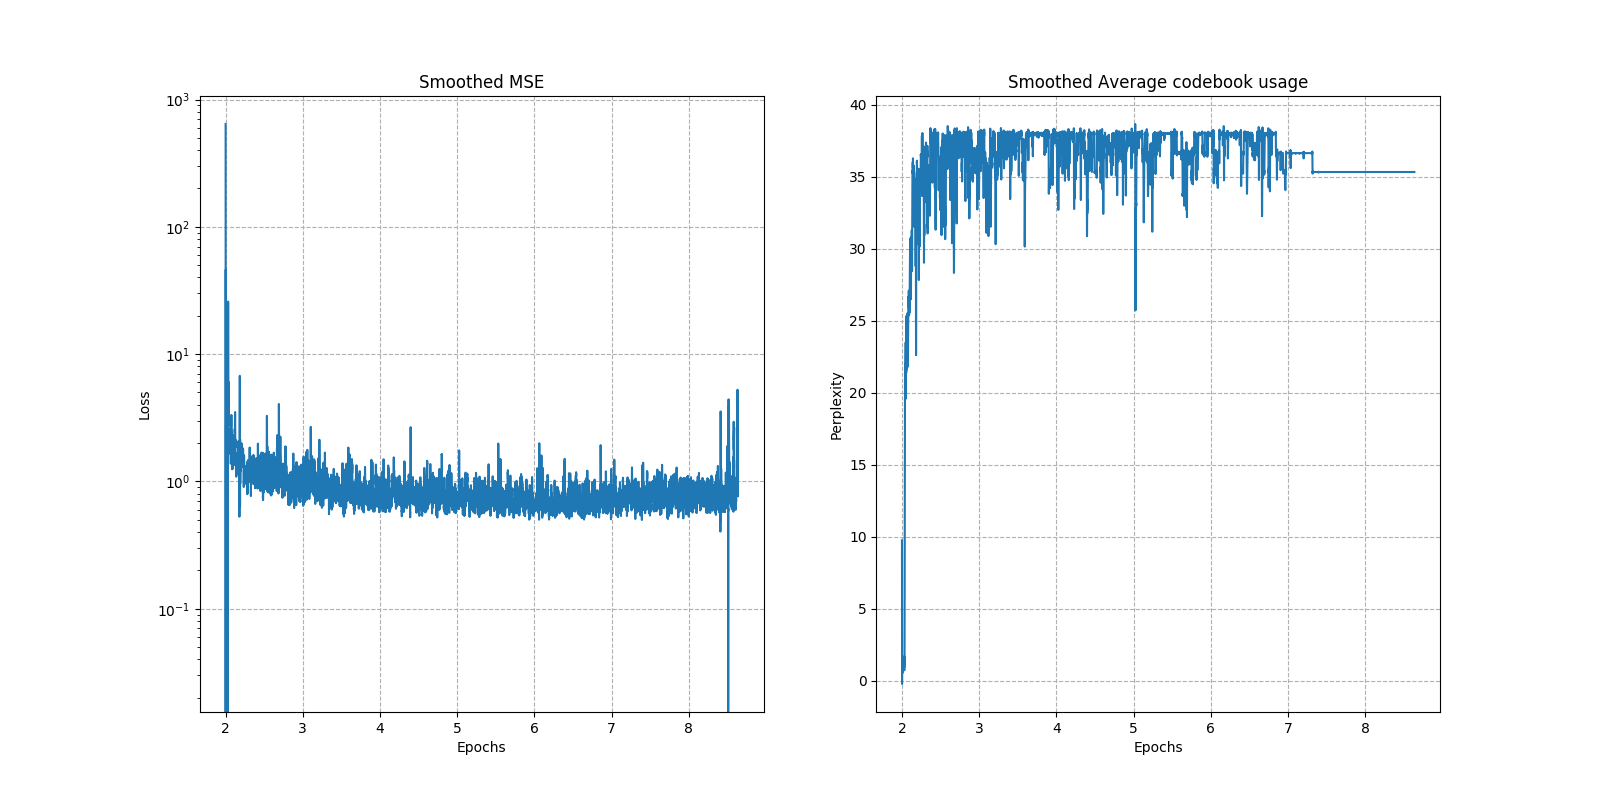
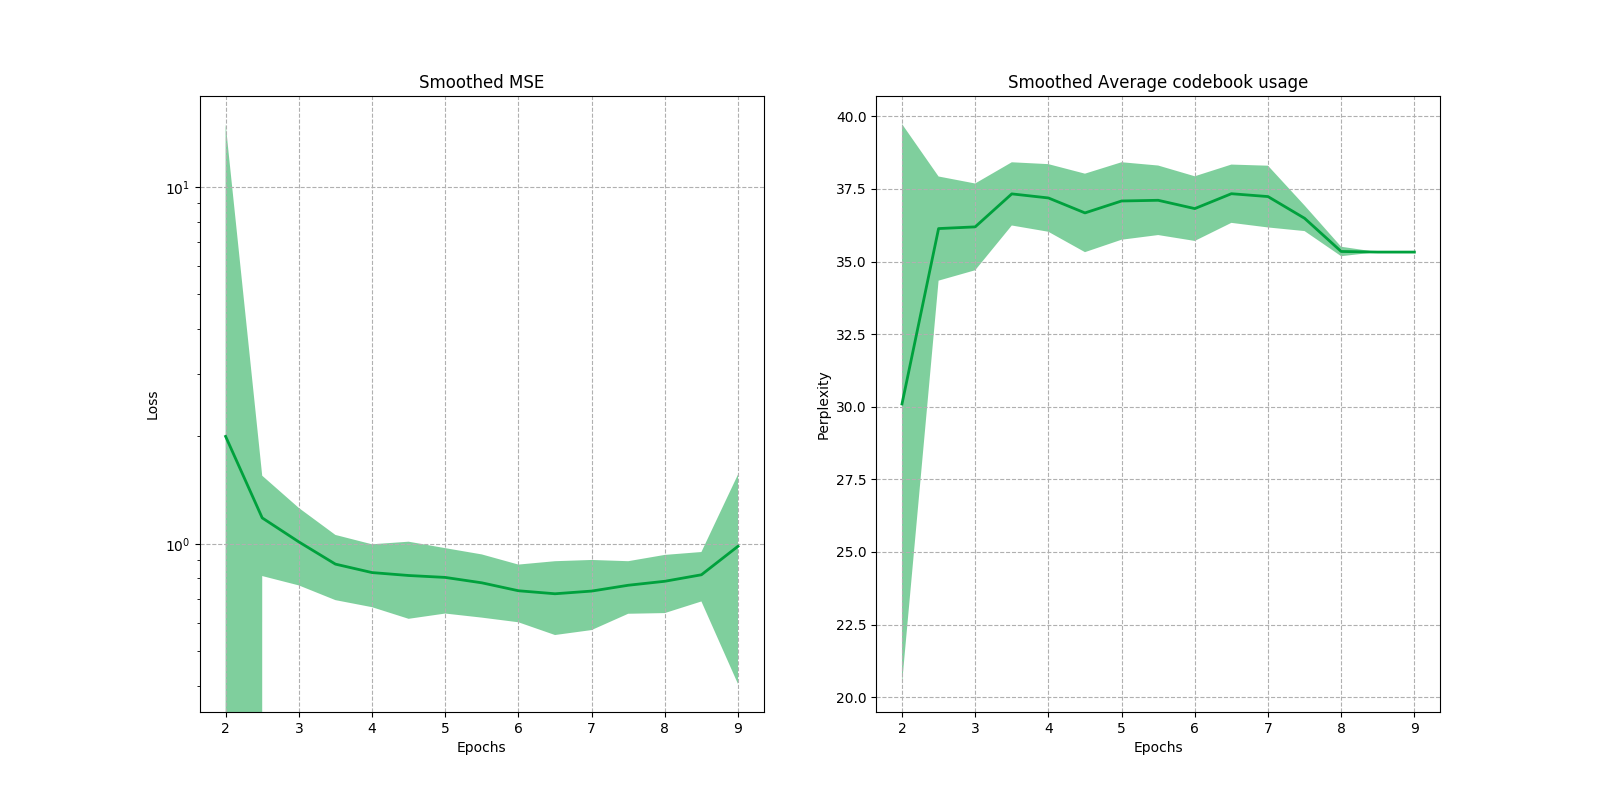
Fix experiments.py bug, remove hardcoded values from experiments.py and update n15 results with all fill_between style

diff --git a/src/experiments/experiments.py b/src/experiments/experiments.py
@@ -128,6 +128,10 @@ class Experiments(object):
             ax.grid(True)
             return ax
 
+        linewidth = 2
+        n_colors = len(all_train_res_recon_errors)
+        colors = [plt.get_cmap(colormap_name)(1. * i/n_colors) for i in range(n_colors)]
+
         if merge_figures:
             latest_epoch = all_latest_epochs[0]
             for i in range(1, len(all_latest_epochs)):
@@ -141,7 +145,7 @@ class Experiments(object):
             all_train_res_recon_error_smooth = list()
             all_train_res_perplexity_smooth = list()
             for i in range(len(all_train_res_recon_errors)):
-                train_res_recon_error_smooth, train_res_perplexity_smooth = smooth_losses(
+                train_res_recon_error_smooth, train_res_perplexity_smooth = self._smooth_losses(
                     all_train_res_recon_errors[i],
                     all_train_res_perplexities[i]
                 )
@@ -149,21 +153,18 @@ class Experiments(object):
                 all_train_res_perplexity_smooth.append(train_res_perplexity_smooth)
 
             epochs = range(1, latest_epoch + 1, 1)
-            linewidth = 2
-            n_colors = len(all_train_res_recon_error_smooth)
-            colors = [plt.get_cmap(colormap_name)(1. * i/n_colors) for i in range(n_colors)]
 
             all_train_res_recon_error_smooth = np.asarray(all_train_res_recon_error_smooth)
             all_train_res_perplexity_smooth = np.asarray(all_train_res_perplexity_smooth)
 
-            all_train_res_recon_error_smooth = np.reshape(all_train_res_recon_error_smooth, (7, latest_epoch, all_train_res_recon_error_smooth.shape[1] // latest_epoch))
-            all_train_res_perplexity_smooth = np.reshape(all_train_res_perplexity_smooth, (7, latest_epoch, all_train_res_perplexity_smooth.shape[1] // latest_epoch))
+            all_train_res_recon_error_smooth = np.reshape(all_train_res_recon_error_smooth, (n_colors, latest_epoch, all_train_res_recon_error_smooth.shape[1] // latest_epoch))
+            all_train_res_perplexity_smooth = np.reshape(all_train_res_perplexity_smooth, (n_colors, latest_epoch, all_train_res_perplexity_smooth.shape[1] // latest_epoch))
 
             fig = plt.figure(figsize=(16, 8))
 
             ax = fig.add_subplot(1, 2, 1)
             for i in range(len(all_train_res_recon_error_smooth)):
-                linecolor = (0.690, 0.654, 0.047, 1.0) if all_experiments_names[i] == 'jitter12' else colors[i]
+                linecolor = colors[i] # TODO: compute a darker linecolor than facecolor
                 facecolor = colors[i]
                 mu = np.mean(all_train_res_recon_error_smooth[i], axis=1)
                 sigma = np.std(all_train_res_recon_error_smooth[i], axis=1)
@@ -174,7 +175,7 @@ class Experiments(object):
 
             ax = fig.add_subplot(1, 2, 2)
             for i in range(len(all_train_res_perplexity_smooth)):
-                linecolor = (0.690, 0.654, 0.047, 1.0) if all_experiments_names[i] == 'jitter12' else colors[i]
+                linecolor = colors[i] # TODO: compute a darker linecolor than facecolor
                 facecolor = colors[i]
                 mu = np.mean(all_train_res_perplexity_smooth[i], axis=1)
                 sigma = np.std(all_train_res_perplexity_smooth[i], axis=1)
@@ -198,16 +199,36 @@ class Experiments(object):
                     all_train_res_perplexities[i]
                 )
 
-                epochs = range(1, all_latest_epochs[i] + 1, 1)
+                latest_epoch = all_latest_epochs[i]
+                linecolor = colors[i] # TODO: compute a darker linecolor than facecolor
+                facecolor = colors[i]
+
+                train_res_recon_error_smooth = np.asarray(train_res_recon_error_smooth)
+                train_res_perplexity_smooth = np.asarray(train_res_perplexity_smooth)
+
+                train_res_recon_error_smooth = np.reshape(train_res_recon_error_smooth, (latest_epoch, train_res_recon_error_smooth.shape[0] // latest_epoch))
+                train_res_perplexity_smooth = np.reshape(train_res_perplexity_smooth, (latest_epoch, train_res_perplexity_smooth.shape[0] // latest_epoch))
+
+                epochs = range(1, latest_epoch + 1, 1)
 
                 fig = plt.figure(figsize=(16, 8))
 
                 ax = fig.add_subplot(1, 2, 1)
-                ax.plot(train_res_recon_error_smooth)
+                mu = np.mean(train_res_recon_error_smooth, axis=1)
+                sigma = np.std(train_res_recon_error_smooth, axis=1)
+                t = np.arange(len(train_res_recon_error_smooth))
+                ax.plot(t, mu, linewidth=linewidth, label=all_experiments_names[i], c=linecolor)
+                ax.fill_between(t, mu+sigma, mu-sigma, facecolor=facecolor, alpha=0.5)
+                #ax.plot(train_res_recon_error_smooth)
                 ax = configure_ax1(ax, epochs)
 
                 ax = fig.add_subplot(1, 2, 2)
-                ax.plot(train_res_perplexity_smooth)
+                mu = np.mean(train_res_perplexity_smooth, axis=1)
+                sigma = np.std(train_res_perplexity_smooth, axis=1)
+                t = np.arange(len(train_res_perplexity_smooth))
+                ax.plot(t, mu, linewidth=linewidth, label=all_experiments_names[i], c=linecolor)
+                ax.fill_between(t, mu+sigma, mu-sigma, facecolor=facecolor, alpha=0.5)
+                #ax.plot(train_res_perplexity_smooth)
                 ax = configure_ax2(ax, epochs)
 
                 fig.savefig(output_plot_path)
